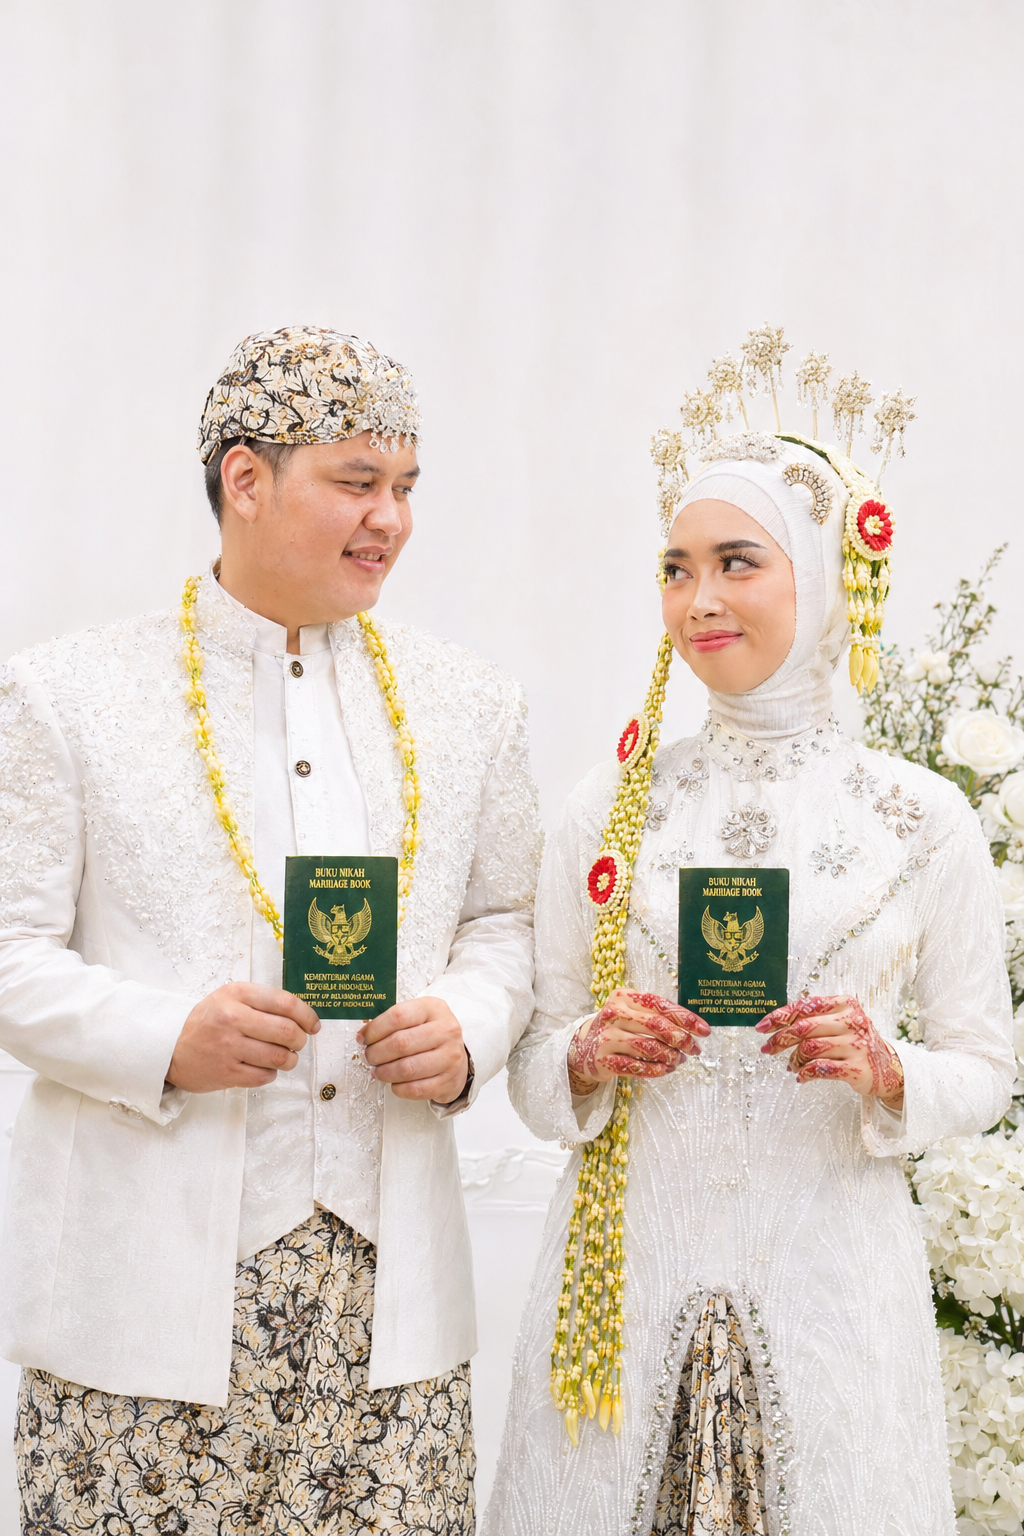
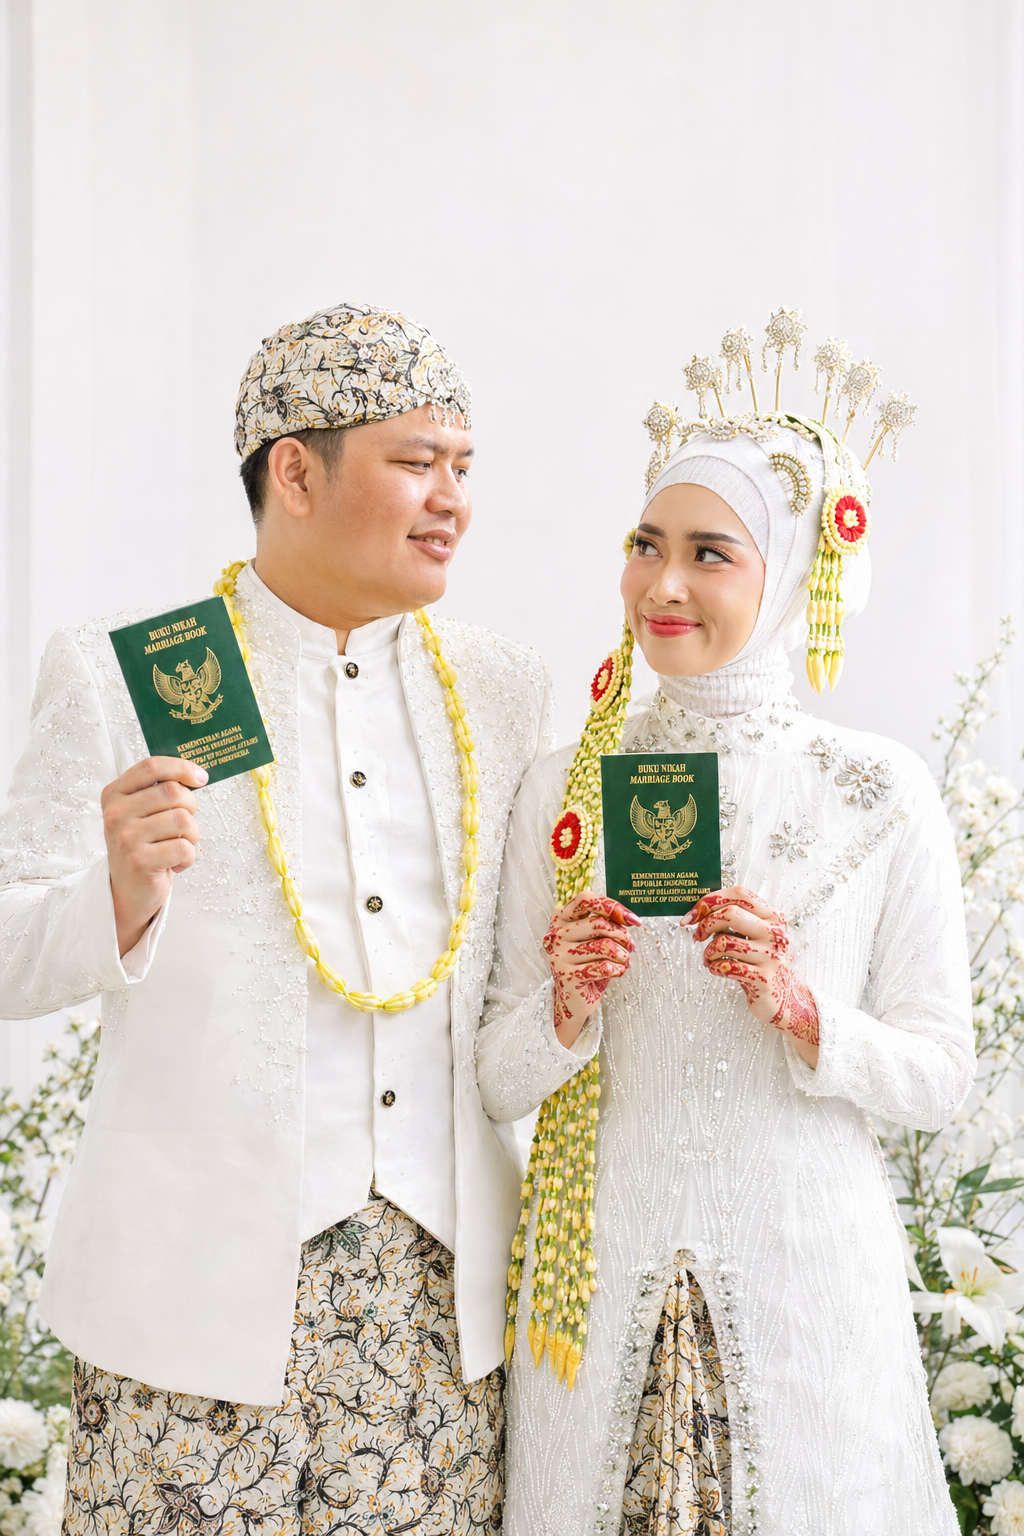
Replace second story gallery photo only

diff --git a/index.html b/index.html
@@ -37,7 +37,7 @@
 <div class="story-carousel" aria-label="Galeri foto pernikahan" tabindex="0">
   <div class="story-track" id="story-track">
     <figure class="story-slide"><img src="./assets/cerita-bingkai-01.png" alt="Kolase foto pernikahan Dipta dan Frengky" loading="lazy"><figcaption>01 — Tasyakuran Pernikahan</figcaption></figure>
-    <figure class="story-slide"><img src="./assets/cerita-bingkai-02.png" alt="Dipta dan Frengky memegang buku nikah" loading="lazy"><figcaption>02 — Momen Bahagia</figcaption></figure>
+    <figure class="story-slide"><img src="./assets/cerita-bingkai-02.png?v=20261117-new" alt="Dipta dan Frengky memegang buku nikah" loading="lazy"><figcaption>02 — Momen Bahagia</figcaption></figure>
     <figure class="story-slide"><img src="./assets/cerita-bingkai-03.png?v=20261117-new" alt="Dipta dan Frengky berpose dengan buket bunga" loading="lazy"><figcaption>03 — Cerita Kita</figcaption></figure>
   </div>
   <button class="story-arrow story-prev" type="button" aria-label="Foto sebelumnya">‹</button>
